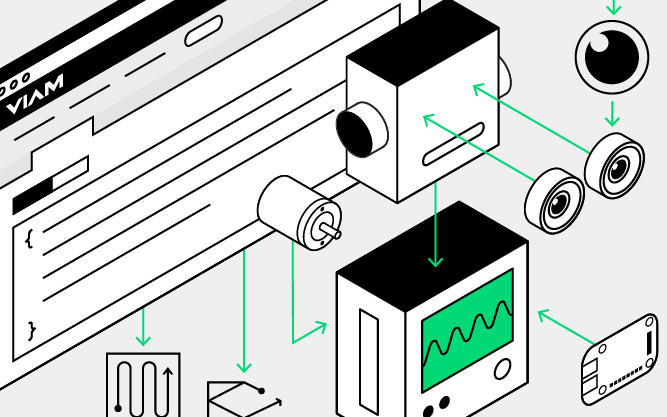
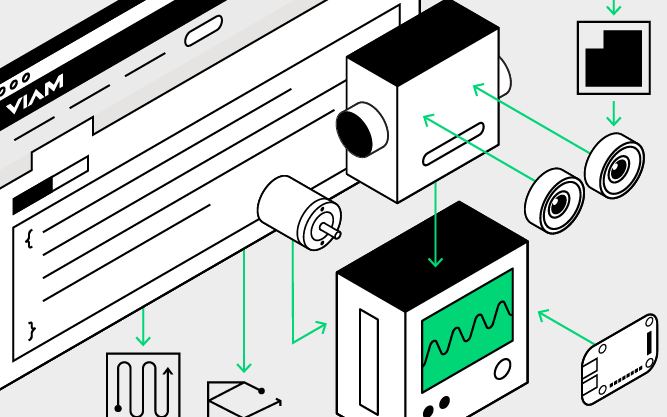
Update services and viam in 3 min image (#1227)

Changed region(s): [[0.8396, 0.0312, 0.9895, 0.3118]]

diff --git a/layouts/404.html b/layouts/404.html
@@ -1,51 +1,274 @@
 {{ define "main"}}
 
 <main id="main">
-  <br>
-  <h1 id="title">404 | These are not the droids you're looking for</h1>
+    <br />
+    <h1 id="title">404 | These are not the droids you're looking for</h1>
 
-  <br>
+    <br />
 
-  <h2>But maybe these could be helpful?</h2>
+    <h2>But maybe these could be helpful?</h2>
 
-  <div class="card-container">
-    <div class="row">
-      <div class="col hover-card hover-card-small"><a href="/viam/"><div class="hover-card-img"><img src="https://assets-global.website-files.com/62fba5686b6d47fe2a1ed2a6/633d91b848050946efcf0690_viam-overview-illustrations-build.svg" alt="A diagram of robotic parts and software" width="100%"></div><div class="small-hover-card-div"><h4>Viam in 3 minutes</h4><p>Learn everything you need to know to get started with the Viam platform.</p></div></a></div>
-      <div class="col hover-card hover-card-small"><a href="/try-viam/"><video autoplay="" loop="" muted="" playsinline="" preload="auto" alt="A Viam Rover moving about" width="100%" style="max-width:">
-          <source src="/img/rover.webm" type="video/webm"><source src="/img/rover.mp4" type="video/mp4">There should have been a video here but your browser does not seem
-          to support it.</video><div class="small-hover-card-div"><h4>Drive a Viam Rover</h4><p>Drive a Viam rover from the comfort of your home right now or follow along with some example robot tutorials.</p></div></a></div>
-      <div class="col hover-card hover-card-small"><a href="/installation/"><div class="hover-card-img"><img src="/installation/img/thumbnails/install.png" alt="Install viam" width="100%"></div><div class="small-hover-card-div"><h4>Install <code>viam-server</code> </h4><p>Learn everything you need to know to get started with the Viam platform.</p></div></a></div>
-      <div class="col hover-card hover-card-small"><a href="/manage/configuration/"><div class="hover-card-img"><img src="/installation/img/thumbnails/manage.png" alt="Terminal window" width="100%"></div><div class="small-hover-card-div"><h4>Configure a Robot</h4><p>Before you can program a robot, you must configure its components and services as well as any modules, remotes, processes and frames.</p></div></a></div>
-      <div class="col hover-card hover-card-small"><a href="/program/"><div class="hover-card-img"><img src="/img/code.png" alt="Program a robot" width="100%"></div><div class="small-hover-card-div"><h4>Program your Robots</h4><p>Use the SDK of your preferred language to write code to control your robots.</p></div></a></div>
+    <div class="card-container">
+        <div class="row">
+            <div class="col hover-card hover-card-small">
+                <a href="/viam/"
+                    ><div class="hover-card-img">
+                        <img
+                            src="/img/understand.png"
+                            alt="A diagram of robotic parts and software"
+                            width="100%"
+                        />
+                    </div>
+                    <div class="small-hover-card-div">
+                        <h4>Viam in 3 minutes</h4>
+                        <p>
+                            Learn everything you need to know to get started
+                            with the Viam platform.
+                        </p>
+                    </div></a
+                >
+            </div>
+            <div class="col hover-card hover-card-small">
+                <a href="/try-viam/"
+                    ><video
+                        autoplay=""
+                        loop=""
+                        muted=""
+                        playsinline=""
+                        preload="auto"
+                        alt="A Viam Rover moving about"
+                        width="100%"
+                        style="max-width: "
+                    >
+                        <source src="/img/rover.webm" type="video/webm" />
+                        <source src="/img/rover.mp4" type="video/mp4" />
+                        There should have been a video here but your browser
+                        does not seem to support it.
+                    </video>
+                    <div class="small-hover-card-div">
+                        <h4>Drive a Viam Rover</h4>
+                        <p>
+                            Drive a Viam rover from the comfort of your home
+                            right now or follow along with some example robot
+                            tutorials.
+                        </p>
+                    </div></a
+                >
+            </div>
+            <div class="col hover-card hover-card-small">
+                <a href="/installation/"
+                    ><div class="hover-card-img">
+                        <img
+                            src="/installation/img/thumbnails/install.png"
+                            alt="Install viam"
+                            width="100%"
+                        />
+                    </div>
+                    <div class="small-hover-card-div">
+                        <h4>Install <code>viam-server</code></h4>
+                        <p>
+                            Learn everything you need to know to get started
+                            with the Viam platform.
+                        </p>
+                    </div></a
+                >
+            </div>
+            <div class="col hover-card hover-card-small">
+                <a href="/manage/configuration/"
+                    ><div class="hover-card-img">
+                        <img
+                            src="/installation/img/thumbnails/manage.png"
+                            alt="Terminal window"
+                            width="100%"
+                        />
+                    </div>
+                    <div class="small-hover-card-div">
+                        <h4>Configure a Robot</h4>
+                        <p>
+                            Before you can program a robot, you must configure
+                            its components and services as well as any modules,
+                            remotes, processes and frames.
+                        </p>
+                    </div></a
+                >
+            </div>
+            <div class="col hover-card hover-card-small">
+                <a href="/program/"
+                    ><div class="hover-card-img">
+                        <img
+                            src="/img/code.png"
+                            alt="Program a robot"
+                            width="100%"
+                        />
+                    </div>
+                    <div class="small-hover-card-div">
+                        <h4>Program your Robots</h4>
+                        <p>
+                            Use the SDK of your preferred language to write code
+                            to control your robots.
+                        </p>
+                    </div></a
+                >
+            </div>
+        </div>
     </div>
-  </div>
-  <br>
-  <h2> Or these?</h2>
-  <div class="card-container">
-    <div class="row">
-      <div class="col hover-card hover-card-small"><a href="/tutorials/get-started/servo-mousemover/"><video autoplay="" loop="" muted="" playsinline="" preload="auto" alt="A mouse mover controlled with a servo and Raspberry Pi." width="100%">
-          <source src="/tutorials/img/single-component-tutorials-servo-mousemover/pi-hole.webm" type="video/webm"><source src="/tutorials/img/single-component-tutorials-servo-mousemover/pi-hole.mp4" type="video/mp4">There should have been a video here but your browser does not seem
-          to support it.</video><div class="small-hover-card-div"><h4>Create a Mouse Mover</h4><p>Use the Python SDK to move a continuous servo to keep a computer screen from sleeping.</p></div></a></div>
+    <br />
+    <h2>Or these?</h2>
+    <div class="card-container">
+        <div class="row">
+            <div class="col hover-card hover-card-small">
+                <a href="/tutorials/get-started/servo-mousemover/"
+                    ><video
+                        autoplay=""
+                        loop=""
+                        muted=""
+                        playsinline=""
+                        preload="auto"
+                        alt="A mouse mover controlled with a servo and Raspberry Pi."
+                        width="100%"
+                    >
+                        <source
+                            src="/tutorials/img/single-component-tutorials-servo-mousemover/pi-hole.webm"
+                            type="video/webm"
+                        />
+                        <source
+                            src="/tutorials/img/single-component-tutorials-servo-mousemover/pi-hole.mp4"
+                            type="video/mp4"
+                        />
+                        There should have been a video here but your browser
+                        does not seem to support it.
+                    </video>
+                    <div class="small-hover-card-div">
+                        <h4>Create a Mouse Mover</h4>
+                        <p>
+                            Use the Python SDK to move a continuous servo to
+                            keep a computer screen from sleeping.
+                        </p>
+                    </div></a
+                >
+            </div>
 
-      <div class="col hover-card hover-card-small"><a href="/tutorials/services/plan-motion-with-arm-gripper/"><video autoplay="" loop="" muted="" playsinline="" preload="auto" alt="An arm moving with the Motion Service" width="100%">
-              <source src="/tutorials/videos/motion_armmoving.webm" type="video/webm"><source src="/tutorials/videos/motion_armmoving.mp4" type="video/mp4">There should have been a video here but your browser does not seem
-              to support it.</video><div class="small-hover-card-div"><h4>Plan Motion with an Arm</h4><p>Use the Motion Service to move robot arms and other components.</p></div></a></div>
+            <div class="col hover-card hover-card-small">
+                <a href="/tutorials/services/plan-motion-with-arm-gripper/"
+                    ><video
+                        autoplay=""
+                        loop=""
+                        muted=""
+                        playsinline=""
+                        preload="auto"
+                        alt="An arm moving with the Motion Service"
+                        width="100%"
+                    >
+                        <source
+                            src="/tutorials/videos/motion_armmoving.webm"
+                            type="video/webm"
+                        />
+                        <source
+                            src="/tutorials/videos/motion_armmoving.mp4"
+                            type="video/mp4"
+                        />
+                        There should have been a video here but your browser
+                        does not seem to support it.
+                    </video>
+                    <div class="small-hover-card-div">
+                        <h4>Plan Motion with an Arm</h4>
+                        <p>
+                            Use the Motion Service to move robot arms and other
+                            components.
+                        </p>
+                    </div></a
+                >
+            </div>
 
-      <div class="col hover-card hover-card-small"><a href="/tutorials/services/color-detection-scuttle/"><video autoplay="" loop="" muted="" playsinline="" preload="auto" alt="Detecting color with a Scuttle Robot" width="100%">
-                <source src="/tutorials/videos/scuttledemos_colordetection.webm" type="video/webm"><source src="/tutorials/videos/scuttledemos_colordetection.mp4" type="video/mp4">There should have been a video here but your browser does not seem
-                to support it.</video><div class="small-hover-card-div"><h4>Colored Object Follower</h4><p>Instructions for detecting and following a colored object with a SCUTTLE Robot on Viam software.</p></div></a></div>
+            <div class="col hover-card hover-card-small">
+                <a href="/tutorials/services/color-detection-scuttle/"
+                    ><video
+                        autoplay=""
+                        loop=""
+                        muted=""
+                        playsinline=""
+                        preload="auto"
+                        alt="Detecting color with a Scuttle Robot"
+                        width="100%"
+                    >
+                        <source
+                            src="/tutorials/videos/scuttledemos_colordetection.webm"
+                            type="video/webm"
+                        />
+                        <source
+                            src="/tutorials/videos/scuttledemos_colordetection.mp4"
+                            type="video/mp4"
+                        />
+                        There should have been a video here but your browser
+                        does not seem to support it.
+                    </video>
+                    <div class="small-hover-card-div">
+                        <h4>Colored Object Follower</h4>
+                        <p>
+                            Instructions for detecting and following a colored
+                            object with a SCUTTLE Robot on Viam software.
+                        </p>
+                    </div></a
+                >
+            </div>
 
-      <div class="col hover-card hover-card-small"><a href="/tutorials/custom/custom-base-dog/"><video autoplay="" loop="" muted="" playsinline="" preload="auto" alt="A quadrupedal robot comprised of small servos, black laser cut acrylic, and with ultrasonic sensors for eyes, walks forward, backward, and turns from side to side on a desk. Next to it is a laptop with the robot's Control tab on the Viam app open in a browser window." width="100%">
-                  <source src="/tutorials/img/custom-base-dog/base-control-dog.webm" type="video/webm"><source src="/tutorials/img/custom-base-dog/base-control-dog.mp4" type="video/mp4">There should have been a video here but your browser does not seem
-                  to support it.</video><div class="small-hover-card-div"><h4>Custom Quadruped Base</h4><p>Integrate a custom base component with the Viam Python SDK.</p></div></a></div>
+            <div class="col hover-card hover-card-small">
+                <a href="/tutorials/custom/custom-base-dog/"
+                    ><video
+                        autoplay=""
+                        loop=""
+                        muted=""
+                        playsinline=""
+                        preload="auto"
+                        alt="A quadrupedal robot comprised of small servos, black laser cut acrylic, and with ultrasonic sensors for eyes, walks forward, backward, and turns from side to side on a desk. Next to it is a laptop with the robot's Control tab on the Viam app open in a browser window."
+                        width="100%"
+                    >
+                        <source
+                            src="/tutorials/img/custom-base-dog/base-control-dog.webm"
+                            type="video/webm"
+                        />
+                        <source
+                            src="/tutorials/img/custom-base-dog/base-control-dog.mp4"
+                            type="video/mp4"
+                        />
+                        There should have been a video here but your browser
+                        does not seem to support it.
+                    </video>
+                    <div class="small-hover-card-div">
+                        <h4>Custom Quadruped Base</h4>
+                        <p>
+                            Integrate a custom base component with the Viam
+                            Python SDK.
+                        </p>
+                    </div></a
+                >
+            </div>
 
-      <div class="col hover-card hover-card-small"><a href="/tutorials/projects/make-a-plant-watering-robot/"><div class="hover-card-img"><img src="/tutorials/img/plant-watering-pi/preview.png" alt="Picture of the plant watering robot" width="100%"></div><div class="small-hover-card-div"><h4>Plant Watering Robot</h4><p>Create a plant watering robot with a Raspberry Pi.</p></div></a></div>
-
+            <div class="col hover-card hover-card-small">
+                <a href="/tutorials/projects/make-a-plant-watering-robot/"
+                    ><div class="hover-card-img">
+                        <img
+                            src="/tutorials/img/plant-watering-pi/preview.png"
+                            alt="Picture of the plant watering robot"
+                            width="100%"
+                        />
+                    </div>
+                    <div class="small-hover-card-div">
+                        <h4>Plant Watering Robot</h4>
+                        <p>
+                            Create a plant watering robot with a Raspberry Pi.
+                        </p>
+                    </div></a
+                >
+            </div>
+        </div>
     </div>
-  </div>
 
-  <br>
-  <h2>If none of these links are useful, go to <a href="/">the docs overview</a>.</h2>
+    <br />
+    <h2>
+        If none of these links are useful, go to
+        <a href="/">the docs overview</a>.
+    </h2>
 </main>
 
 {{ end }}

diff --git a/docs/viam/_index.md b/docs/viam/_index.md
@@ -8,6 +8,7 @@ aliases:
     - "/getting-started/"
     - "/getting-started/high-level-overview"
     - "/product-overviews/"
+images: ["/img/understand.png"]
 ---
 
 Viam is a complete software platform that supports every step of your robot development lifecycle.
